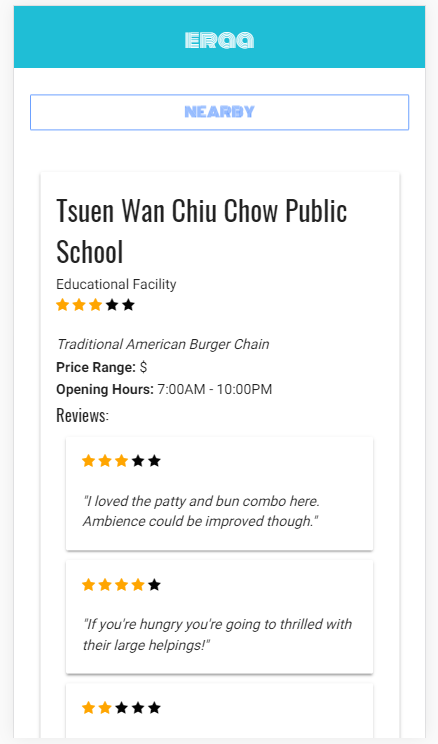
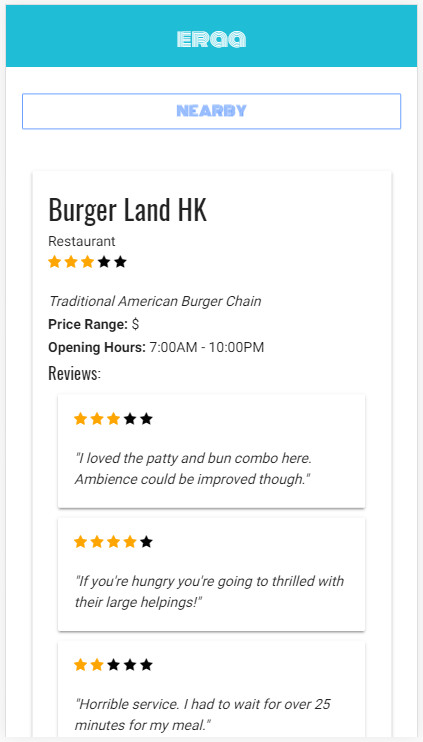
additional commit

diff --git a/src/pages/login/login.html b/src/pages/login/login.html
@@ -37,10 +37,34 @@
 					<span class="fa fa-star"></span>
 					<span class="fa fa-star"></span>	
 					
-					<p>Traditional American Burger Chain<br></p>
-					<p>Price Range: $$<br></p>
-					<p>Opening Hours: 7:00AM - 10:00PM<br></p>
-					<p>Comments<br></p>	
+					<p><br><i>Traditional American Burger Chain</i><br></p>
+					<p><b>Price Range:</b> $$ <br></p>
+					<p><b>Opening Hours:</b> 7:00AM - 10:00PM<br></p>
+					<p class="commenttitle">Reviews:</p>
+					<ion-card padding >
+							<span class="fa fa-star checked"></span>
+							<span class="fa fa-star checked"></span>
+							<span class="fa fa-star checked"></span>
+							<span class="fa fa-star"></span>
+							<span class="fa fa-star"></span>
+							<p><br><i>"I loved the patty and bun combo here. Ambience could be improved though."</i></p>
+					</ion-card>
+					<ion-card padding >
+							<span class="fa fa-star checked"></span>
+							<span class="fa fa-star checked"></span>
+							<span class="fa fa-star checked"></span>
+							<span class="fa fa-star checked"></span>
+							<span class="fa fa-star"></span>
+							<p><br><i>"If you're hungry you're going to thrilled with their large helpings!"</i></p>
+					</ion-card>
+					<ion-card padding >
+							<span class="fa fa-star checked"></span>
+							<span class="fa fa-star checked"></span>
+							<span class="fa fa-star"></span>
+							<span class="fa fa-star"></span>
+							<span class="fa fa-star"></span>
+							<p><br><i>"Horrible service. I had to wait for over 25 minutes for my meal."</i></p>
+					</ion-card>
 				</div>
 			
 			<div *ngIf="totaldat =='Educational Facility'">
